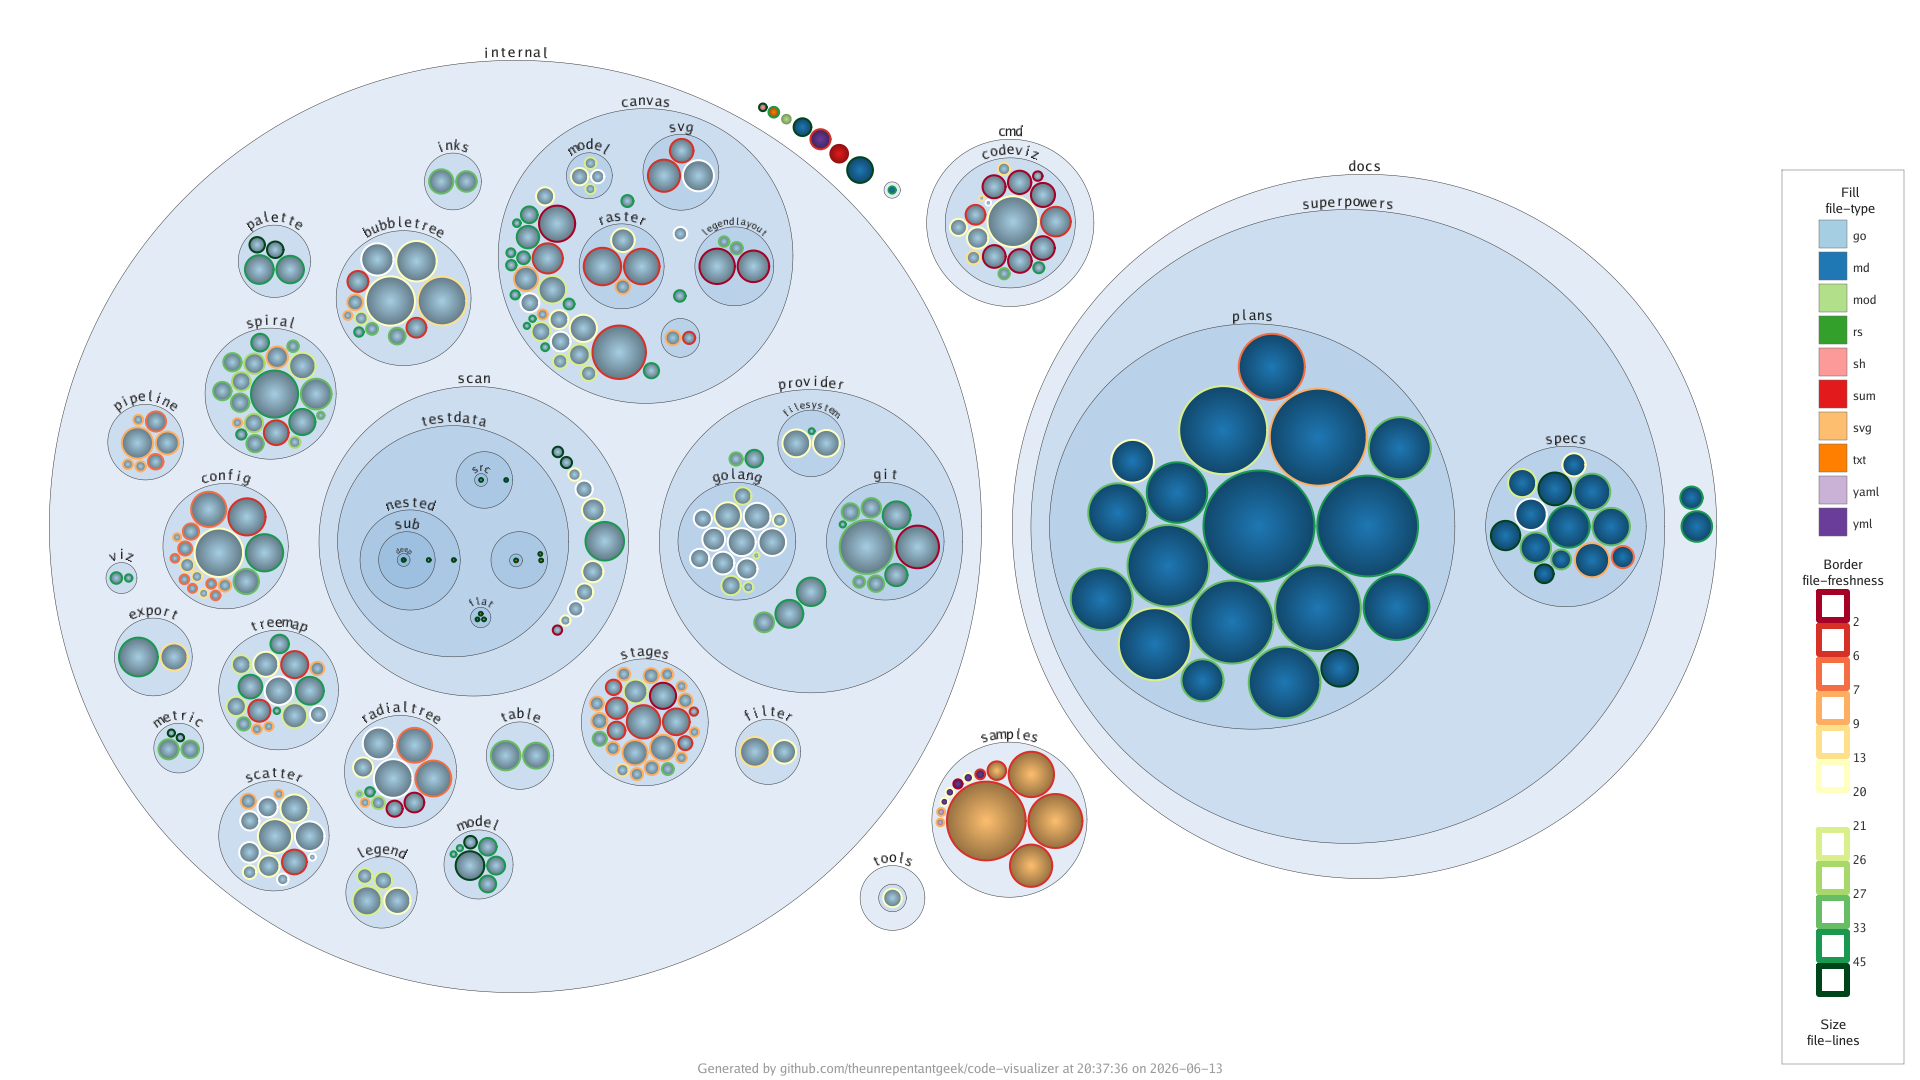
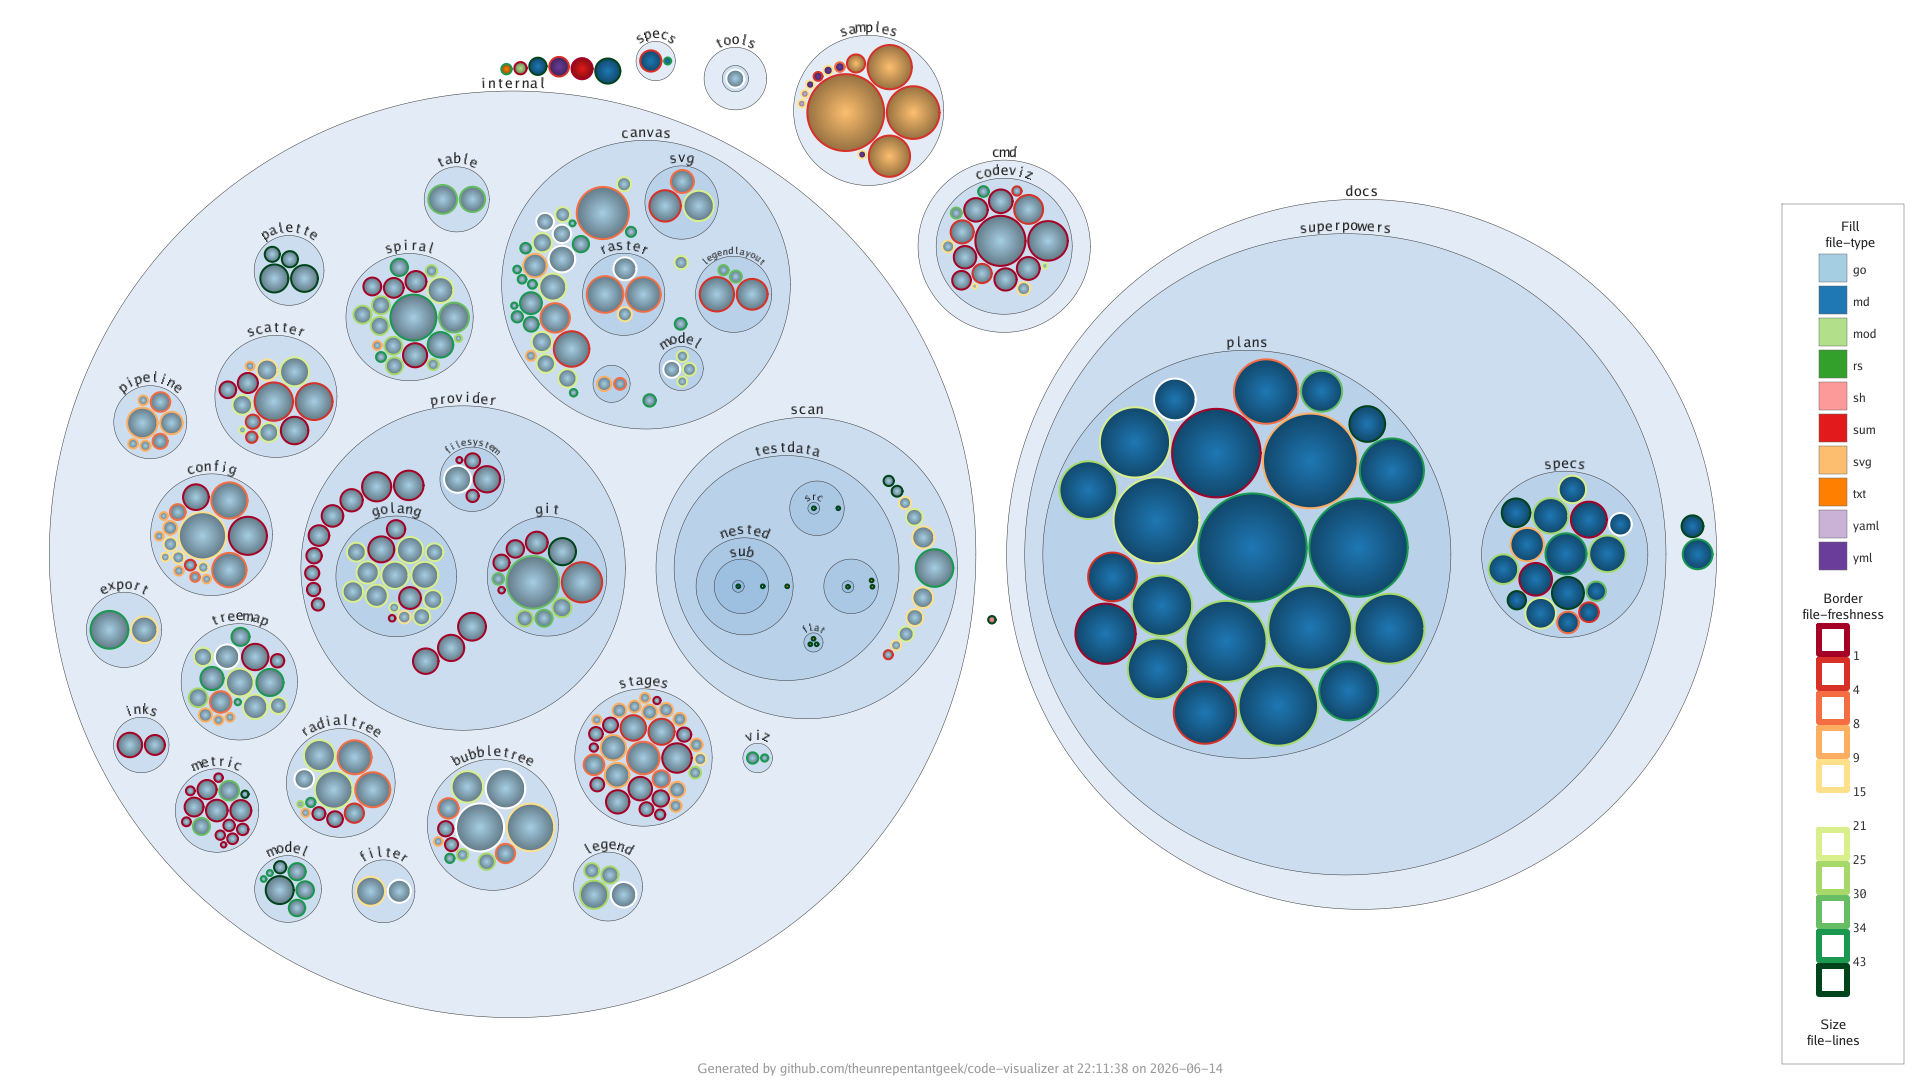
fix: address lint issues in metric expression code
- Extract filter constants (goconst)
- Add nil-guard in MetricContainer.Quantity (nilaway)
- Add NotNil assertion in declarations_test (nilaway)
- Fix godoc format for LinesAdded constant
- Add blank lines for wsl_v5 compliance
- Split git RegisterBase into registerFileMetrics/registerCommitMetrics (funlen)
- Reduce cognitive complexity: extract computeOneAggregation, declarationMatchesExpression
- Replace switch-based matchesDeclKind with map lookup (cyclomatic)
- Add default cases to enforce-switch-style
- Fix unused-write warnings in model tests

diff --git a/internal/stages/aggregation.go b/internal/stages/aggregation.go
@@ -12,33 +12,29 @@ import (
 // values for each resolved expression. Each directory gets its own aggregate
 // computed from all descendant source-level nodes.
 func ComputeAggregations(root *model.Directory, expressions []provider.ResolvedMetric) error {
-	if len(expressions) == 0 {
-		return nil
-	}
-
 	for _, resolved := range expressions {
-		switch resolved.SourceLevel {
-		case metric.LevelFile:
-			if err := aggregateDirectory(root, resolved); err != nil {
-				return err
-			}
-		case metric.LevelDeclaration:
-			if err := aggregateDeclarations(root, resolved); err != nil {
-				return err
-			}
-		case metric.LevelCommit:
-			if err := aggregateCommits(root, resolved); err != nil {
-				return err
-			}
-		default:
-			return eris.Errorf(
-				"aggregation of %s-level metric %q is not supported",
-				resolved.SourceLevel, resolved.Expression.Base,
-			)
+		if err := computeOneAggregation(root, resolved); err != nil {
+			return err
 		}
 	}
 
 	return nil
+}
+
+func computeOneAggregation(root *model.Directory, resolved provider.ResolvedMetric) error {
+	switch resolved.SourceLevel {
+	case metric.LevelFile:
+		return aggregateDirectory(root, resolved)
+	case metric.LevelDeclaration:
+		return aggregateDeclarations(root, resolved)
+	case metric.LevelCommit:
+		return aggregateCommits(root, resolved)
+	default:
+		return eris.Errorf(
+			"aggregation of %s-level metric %q is not supported",
+			resolved.SourceLevel, resolved.Expression.Base,
+		)
+	}
 }
 
 func aggregateDirectory(dir *model.Directory, resolved provider.ResolvedMetric) error {
@@ -249,13 +245,7 @@ func collectDeclarationNumericValues(dir *model.Directory, resolved provider.Res
 	var values []float64
 
 	model.WalkDeclarations(dir, func(d *model.Declaration, _ *model.File) {
-		if !resolved.Expression.Filter.IsZero() {
-			if !resolved.Descriptor.PassesFilter(resolved.Expression.Filter, d) {
-				return
-			}
-		}
-
-		if !matchesDeclKind(d, resolved.Expression.Base) {
+		if !declarationMatchesExpression(d, resolved) {
 			return
 		}
 
@@ -271,23 +261,31 @@ func collectDeclarationNumericValues(dir *model.Directory, resolved provider.Res
 			if v, ok := d.Measure(resolved.Expression.Base); ok {
 				values = append(values, v)
 			}
+		default:
+			// Classification metrics use collectDeclarationClassificationValues
 		}
 	})
 
 	return values
 }
 
+// declarationMatchesExpression returns true if the declaration passes the
+// filter and kind checks required by the resolved expression.
+func declarationMatchesExpression(d *model.Declaration, resolved provider.ResolvedMetric) bool {
+	if !resolved.Expression.Filter.IsZero() {
+		if !resolved.Descriptor.PassesFilter(resolved.Expression.Filter, d) {
+			return false
+		}
+	}
+
+	return matchesDeclKind(d, resolved.Expression.Base)
+}
+
 func collectDeclarationClassificationValues(dir *model.Directory, resolved provider.ResolvedMetric) []string {
 	var values []string
 
 	model.WalkDeclarations(dir, func(d *model.Declaration, _ *model.File) {
-		if !resolved.Expression.Filter.IsZero() {
-			if !resolved.Descriptor.PassesFilter(resolved.Expression.Filter, d) {
-				return
-			}
-		}
-
-		if !matchesDeclKind(d, resolved.Expression.Base) {
+		if !declarationMatchesExpression(d, resolved) {
 			return
 		}
 
@@ -299,29 +297,35 @@ func collectDeclarationClassificationValues(dir *model.Directory, resolved provi
 	return values
 }
 
+// declKindMap maps base metric names to acceptable declaration kinds.
+// Metrics not in this map accept any declaration kind.
+var declKindMap = map[metric.Name][]string{
+	"types":                 {"type", "struct", "interface"},
+	"interfaces":           {"interface"},
+	"structs":              {"struct"},
+	"functions":            {"function"},
+	"methods":              {"method"},
+	"constants":            {"constant"},
+	"variables":            {"variable"},
+	"cyclomatic-complexity": {"function", "method"},
+	"function-length":       {"function", "method"},
+}
+
 // matchesDeclKind checks whether a declaration matches the semantic category
 // implied by the base metric name.
 func matchesDeclKind(d *model.Declaration, baseName metric.Name) bool {
-	switch baseName {
-	case "types":
-		return d.Kind == "type" || d.Kind == "struct" || d.Kind == "interface"
-	case "interfaces":
-		return d.Kind == "interface"
-	case "structs":
-		return d.Kind == "struct"
-	case "functions":
-		return d.Kind == "function"
-	case "methods":
-		return d.Kind == "method"
-	case "constants":
-		return d.Kind == "constant"
-	case "variables":
-		return d.Kind == "variable"
-	case "cyclomatic-complexity", "function-length":
-		return d.Kind == "function" || d.Kind == "method"
-	default:
+	kinds, ok := declKindMap[baseName]
+	if !ok {
 		return true
 	}
+
+	for _, k := range kinds {
+		if d.Kind == k {
+			return true
+		}
+	}
+
+	return false
 }
 
 // ---------------------------------------------------------------------------
@@ -385,6 +389,8 @@ func collectCommitNumericValues(dir *model.Directory, resolved provider.Resolved
 			if v, ok := c.Measure(resolved.Expression.Base); ok {
 				values = append(values, v)
 			}
+		default:
+			// Commit-level classification metrics not yet supported
 		}
 	})
 

diff --git a/internal/provider/golang/base_metrics.go b/internal/provider/golang/base_metrics.go
@@ -20,15 +20,20 @@ const (
 	FunctionLength       metric.Name = "function-length"
 )
 
+const (
+	filterPublic  metric.FilterName = "public"
+	filterPrivate metric.FilterName = "private"
+)
+
 // GoProvider is the provider descriptor for Go metrics.
 var GoProvider = provider.ProviderDescriptor{
 	Name: "go",
 	Filters: map[metric.FilterName]string{
-		"public":   "Exported declarations only",
-		"private":  "Unexported declarations only",
-		"stdlib":   "Standard library imports only",
-		"external": "External (third-party) imports only",
-		"internal": "Internal (same module) imports only",
+		filterPublic:  "Exported declarations only",
+		filterPrivate: "Unexported declarations only",
+		"stdlib":      "Standard library imports only",
+		"external":    "External (third-party) imports only",
+		"internal":    "Internal (same module) imports only",
 	},
 }
 
@@ -36,7 +41,7 @@ var (
 	goDeclCountAggs   = []metric.AggregationName{metric.AggCount, metric.AggSum}
 	goNumericAggs     = []metric.AggregationName{metric.AggSum, metric.AggMin, metric.AggMax, metric.AggMean}
 	goSummaryAggs     = []metric.AggregationName{metric.AggMin, metric.AggMax, metric.AggMean}
-	goVisibilityNames = []metric.FilterName{"public", "private"}
+	goVisibilityNames = []metric.FilterName{filterPublic, filterPrivate}
 	goImportFilters   = []metric.FilterName{"stdlib", "external", "internal"}
 
 	// goDeclarationFilter evaluates visibility filters against a Declaration node.

diff --git a/internal/stages/aggregation_test.go b/internal/stages/aggregation_test.go
@@ -178,8 +178,12 @@ func TestComputeAggregations_DeclarationLevel_EmptyDirNoError(t *testing.T) {
 	root := &model.Directory{Name: "root"}
 
 	resolved := provider.ResolvedMetric{
-		Expression:       metric.MetricExpression{Base: "cyclomatic-complexity", Aggregation: metric.AggMean},
-		Descriptor:       provider.BaseMetricDescriptor{Name: "cyclomatic-complexity", Kind: metric.Quantity, Level: metric.LevelDeclaration},
+		Expression: metric.MetricExpression{Base: "cyclomatic-complexity", Aggregation: metric.AggMean},
+		Descriptor: provider.BaseMetricDescriptor{
+			Name:  "cyclomatic-complexity",
+			Kind:  metric.Quantity,
+			Level: metric.LevelDeclaration,
+		},
 		SourceLevel:      metric.LevelDeclaration,
 		TargetLevel:      metric.LevelDirectory,
 		ResultKind:       metric.Measure,
@@ -330,8 +334,10 @@ func TestComputeAggregations_DeclarationLevel_MeanCyclomaticComplexity(t *testin
 
 	d1 := &model.Declaration{Name: "A", Kind: "function", Visibility: "public"}
 	d1.SetQuantity("cyclomatic-complexity", 2)
+
 	d2 := &model.Declaration{Name: "B", Kind: "function", Visibility: "public"}
 	d2.SetQuantity("cyclomatic-complexity", 4)
+
 	d3 := &model.Declaration{Name: "C", Kind: "method", Visibility: "private"}
 	d3.SetQuantity("cyclomatic-complexity", 6)
 
@@ -374,6 +380,7 @@ func TestComputeAggregations_DeclarationLevel_FilterExcludesNonMatching(t *testi
 
 	d1 := &model.Declaration{Name: "Pub", Kind: "function", Visibility: "public"}
 	d1.SetQuantity("cyclomatic-complexity", 10)
+
 	d2 := &model.Declaration{Name: "priv", Kind: "function", Visibility: "private"}
 	d2.SetQuantity("cyclomatic-complexity", 2)
 
@@ -431,8 +438,10 @@ func TestComputeAggregations_CommitLevel_MaxLinesChanged(t *testing.T) {
 
 	c1 := &model.Commit{Hash: "aaa"}
 	c1.SetQuantity("lines-changed", 10)
+
 	c2 := &model.Commit{Hash: "bbb"}
 	c2.SetQuantity("lines-changed", 50)
+
 	c3 := &model.Commit{Hash: "ccc"}
 	c3.SetQuantity("lines-changed", 25)
 

diff --git a/internal/provider/git/base_metrics.go b/internal/provider/git/base_metrics.go
@@ -14,6 +14,11 @@ var GitProvider = provider.ProviderDescriptor{
 
 // RegisterBase adds git base metric descriptors to the global base registry.
 func RegisterBase() {
+	registerFileMetrics()
+	registerCommitMetrics()
+}
+
+func registerFileMetrics() {
 	provider.RegisterBaseWithProvider(provider.BaseMetricDescriptor{
 		Name:           FileAge,
 		Kind:           metric.Quantity,
@@ -76,8 +81,9 @@ func RegisterBase() {
 		Aggregations:   []metric.AggregationName{metric.AggMin, metric.AggMax},
 		DefaultPalette: palette.Temperature,
 	}, GitProvider)
+}
 
-	// Commit-level base metrics (per-commit granularity)
+func registerCommitMetrics() {
 	provider.RegisterBaseWithProvider(provider.BaseMetricDescriptor{
 		Name:           LinesAdded,
 		Kind:           metric.Quantity,

diff --git a/internal/model/metric_container.go b/internal/model/metric_container.go
@@ -20,6 +20,10 @@ func (mc *MetricContainer) Quantity(name metric.Name) (int64, bool) {
 	mc.mu.RLock()
 	defer mc.mu.RUnlock()
 
+	if mc.quantities == nil {
+		return 0, false
+	}
+
 	v, ok := mc.quantities[name]
 
 	return v, ok

diff --git a/internal/provider/git/metrics.go b/internal/provider/git/metrics.go
@@ -19,8 +19,8 @@ const (
 	TotalLinesRemoved metric.Name = "total-lines-removed"
 	CommitDensity     metric.Name = "commit-density"
 
-	// Commit-level metrics (per-commit granularity)
-	LinesAdded   metric.Name = "lines-added"
+	// LinesAdded is a commit-level metric tracking lines added per commit.
+	LinesAdded metric.Name = "lines-added"
 	LinesRemoved metric.Name = "lines-removed"
 	LinesChanged metric.Name = "lines-changed"
 )

diff --git a/internal/provider/golang/declarations.go b/internal/provider/golang/declarations.go
@@ -216,10 +216,10 @@ func declarationKindForToken(tok token.Token) string {
 
 func visibilityForName(name string) string {
 	if token.IsExported(name) {
-		return "public"
+		return string(filterPublic)
 	}
 
-	return "private"
+	return string(filterPrivate)
 }
 
 func functionLength(

diff --git a/internal/model/commit_test.go b/internal/model/commit_test.go
@@ -18,6 +18,7 @@ func TestCommit_SetAndGetMetrics(t *testing.T) {
 		Author: "[email redacted]",
 		Date:   time.Date(2026, 1, 15, 10, 0, 0, 0, time.UTC),
 	}
+	g.Expect(c.Hash).To(Equal("abc123"))
 
 	c.SetQuantity("lines-added", 42)
 	v, ok := c.Quantity("lines-added")
@@ -34,6 +35,7 @@ func TestCommit_SetAndGetMeasure(t *testing.T) {
 		Author: "[email redacted]",
 		Date:   time.Date(2026, 2, 20, 14, 0, 0, 0, time.UTC),
 	}
+	g.Expect(c.Author).To(Equal("[email redacted]"))
 
 	c.SetMeasure("churn-ratio", 0.75)
 	v, ok := c.Measure("churn-ratio")

diff --git a/internal/model/declaration_test.go b/internal/model/declaration_test.go
@@ -18,6 +18,7 @@ func TestDeclaration_SetAndGetMetrics(t *testing.T) {
 		Kind:       "function",
 		Visibility: "public",
 	}
+	g.Expect(d.Name).To(Equal("HandleRequest"))
 
 	d.SetQuantity("cyclomatic-complexity", 5)
 	v, ok := d.Quantity("cyclomatic-complexity")

diff --git a/internal/provider/golang/declarations_test.go b/internal/provider/golang/declarations_test.go
@@ -114,6 +114,7 @@ func expectDeclaration(
 
 	declaration, ok := declarations[name]
 	g.Expect(ok).To(BeTrue(), "expected declaration %q", name)
+	g.Expect(declaration).NotTo(BeNil())
 	g.Expect(declaration.Kind).To(Equal(kind))
 	g.Expect(declaration.Visibility).To(Equal(visibility))
 }

diff --git a/internal/provider/golang/go_provider.go b/internal/provider/golang/go_provider.go
@@ -202,5 +202,6 @@ func ResetCacheForTesting() {
 		errs:  make(map[string]error),
 	}
 	globalModuleCache = newModuleCache()
+
 	ResetDeclCacheForTesting()
 }